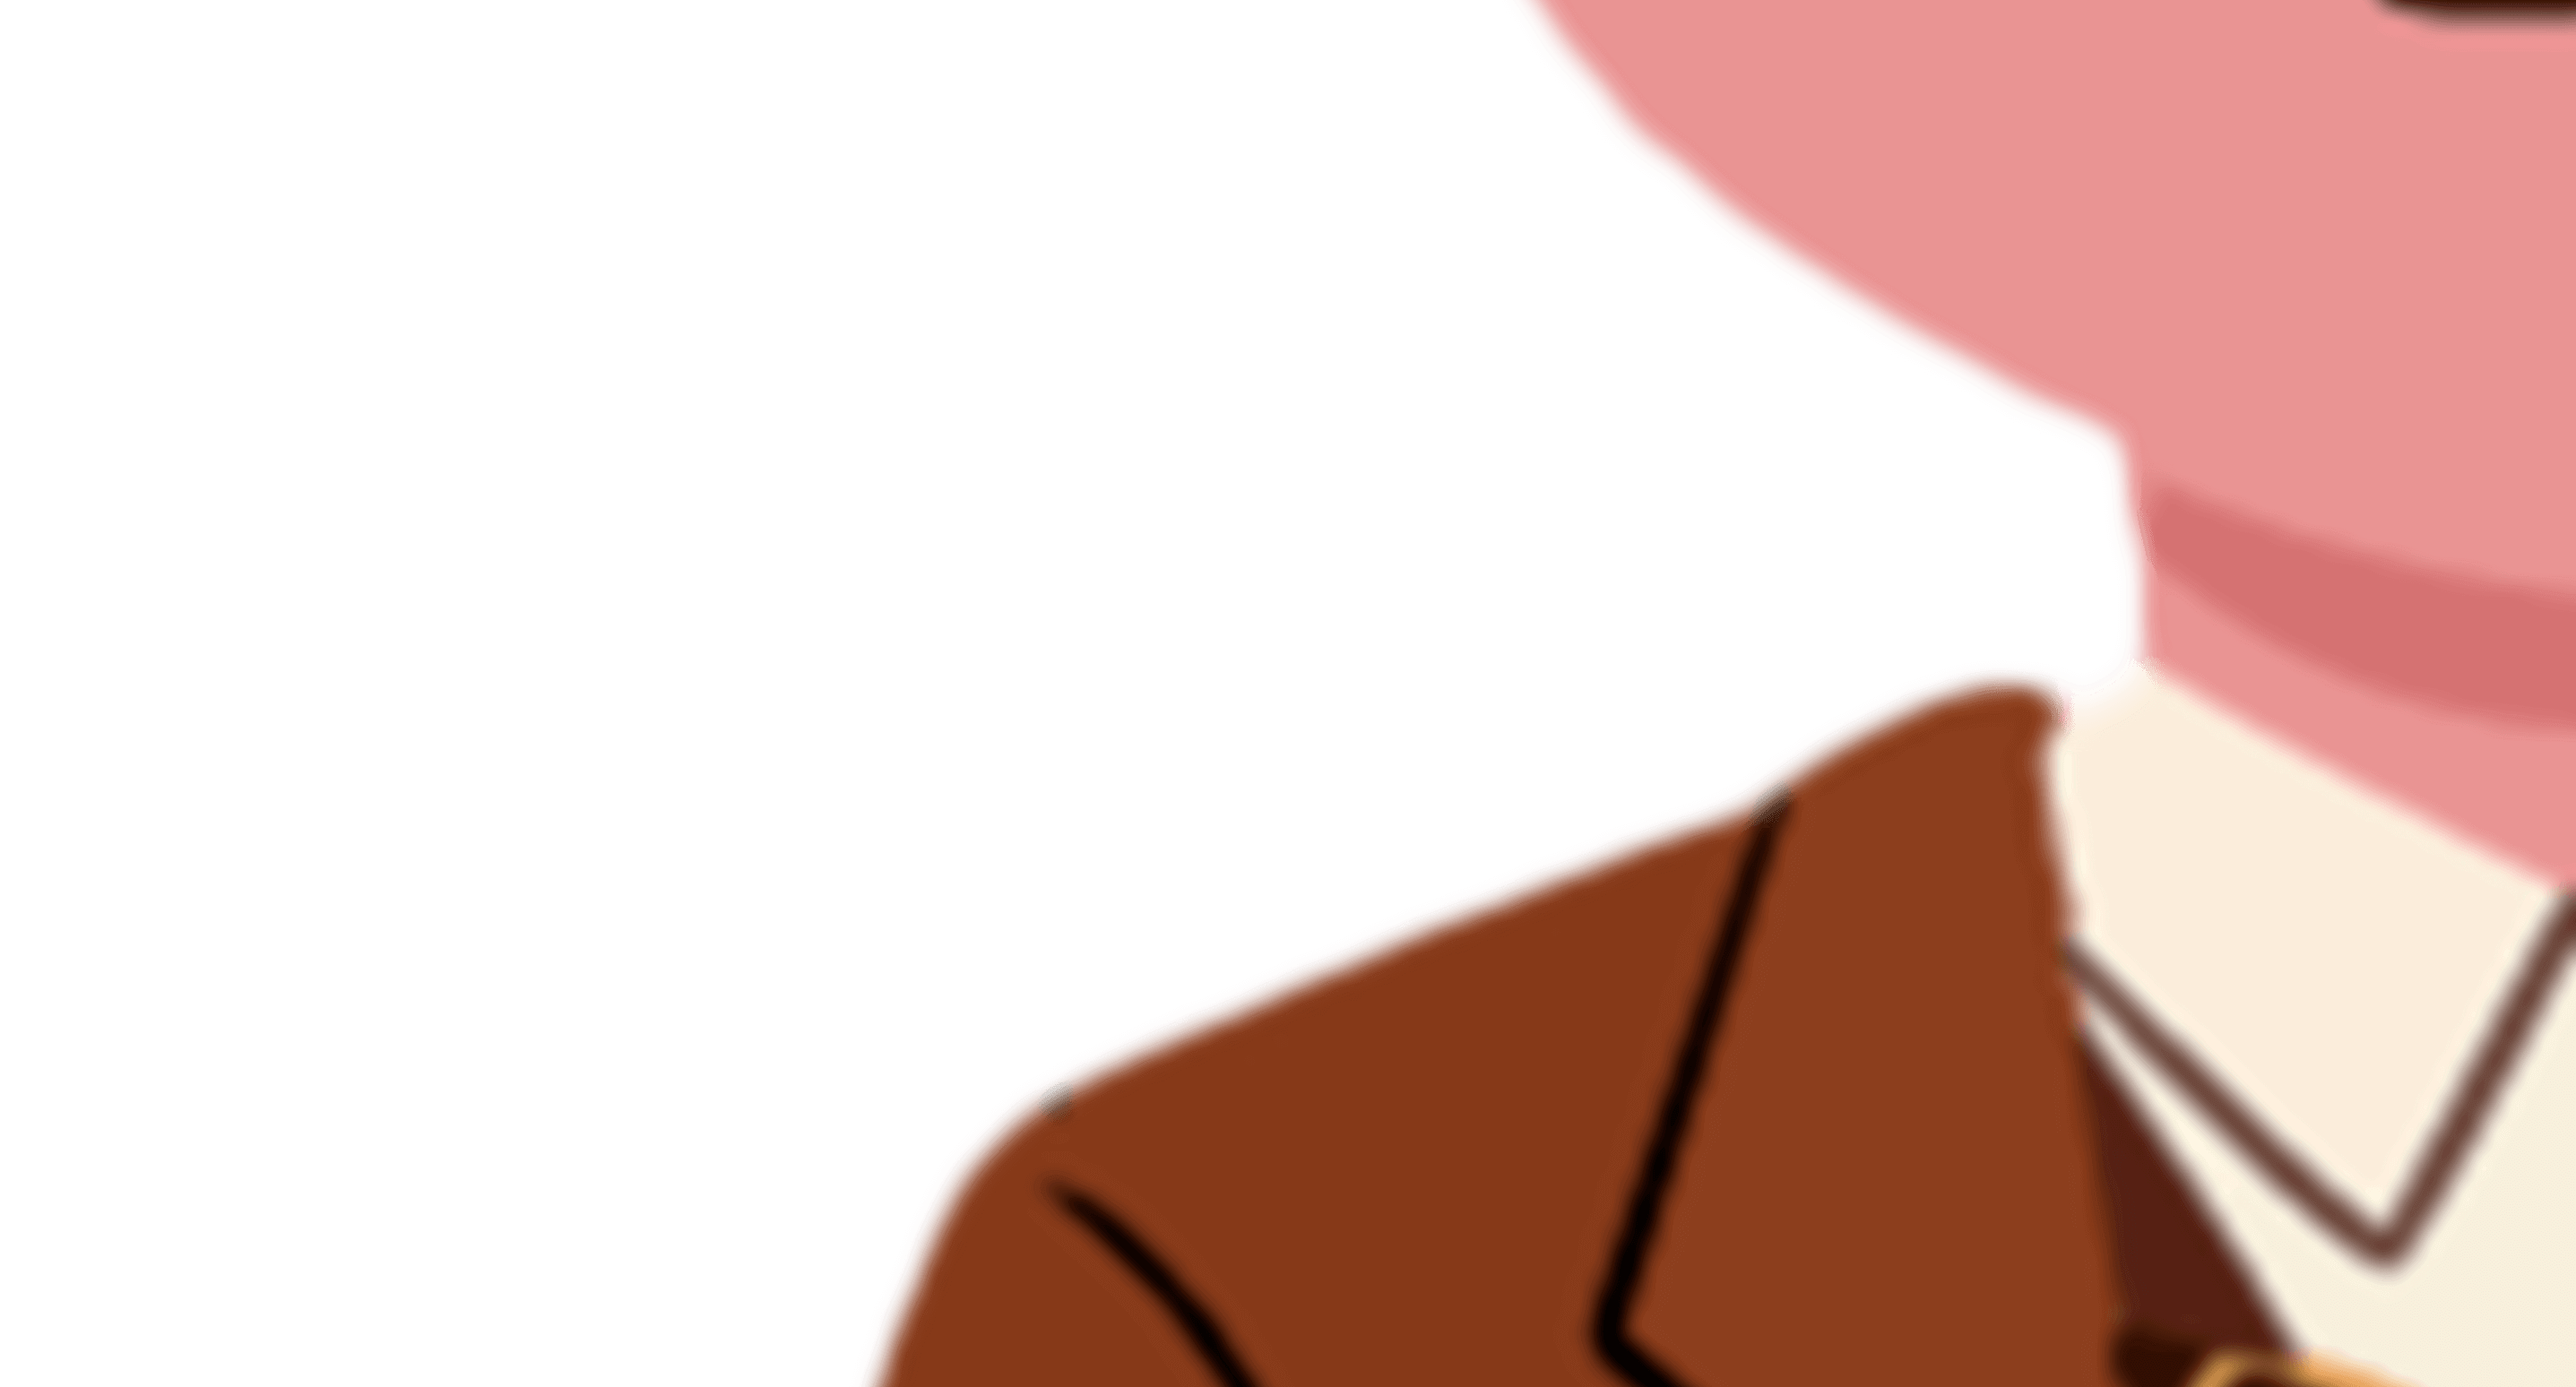
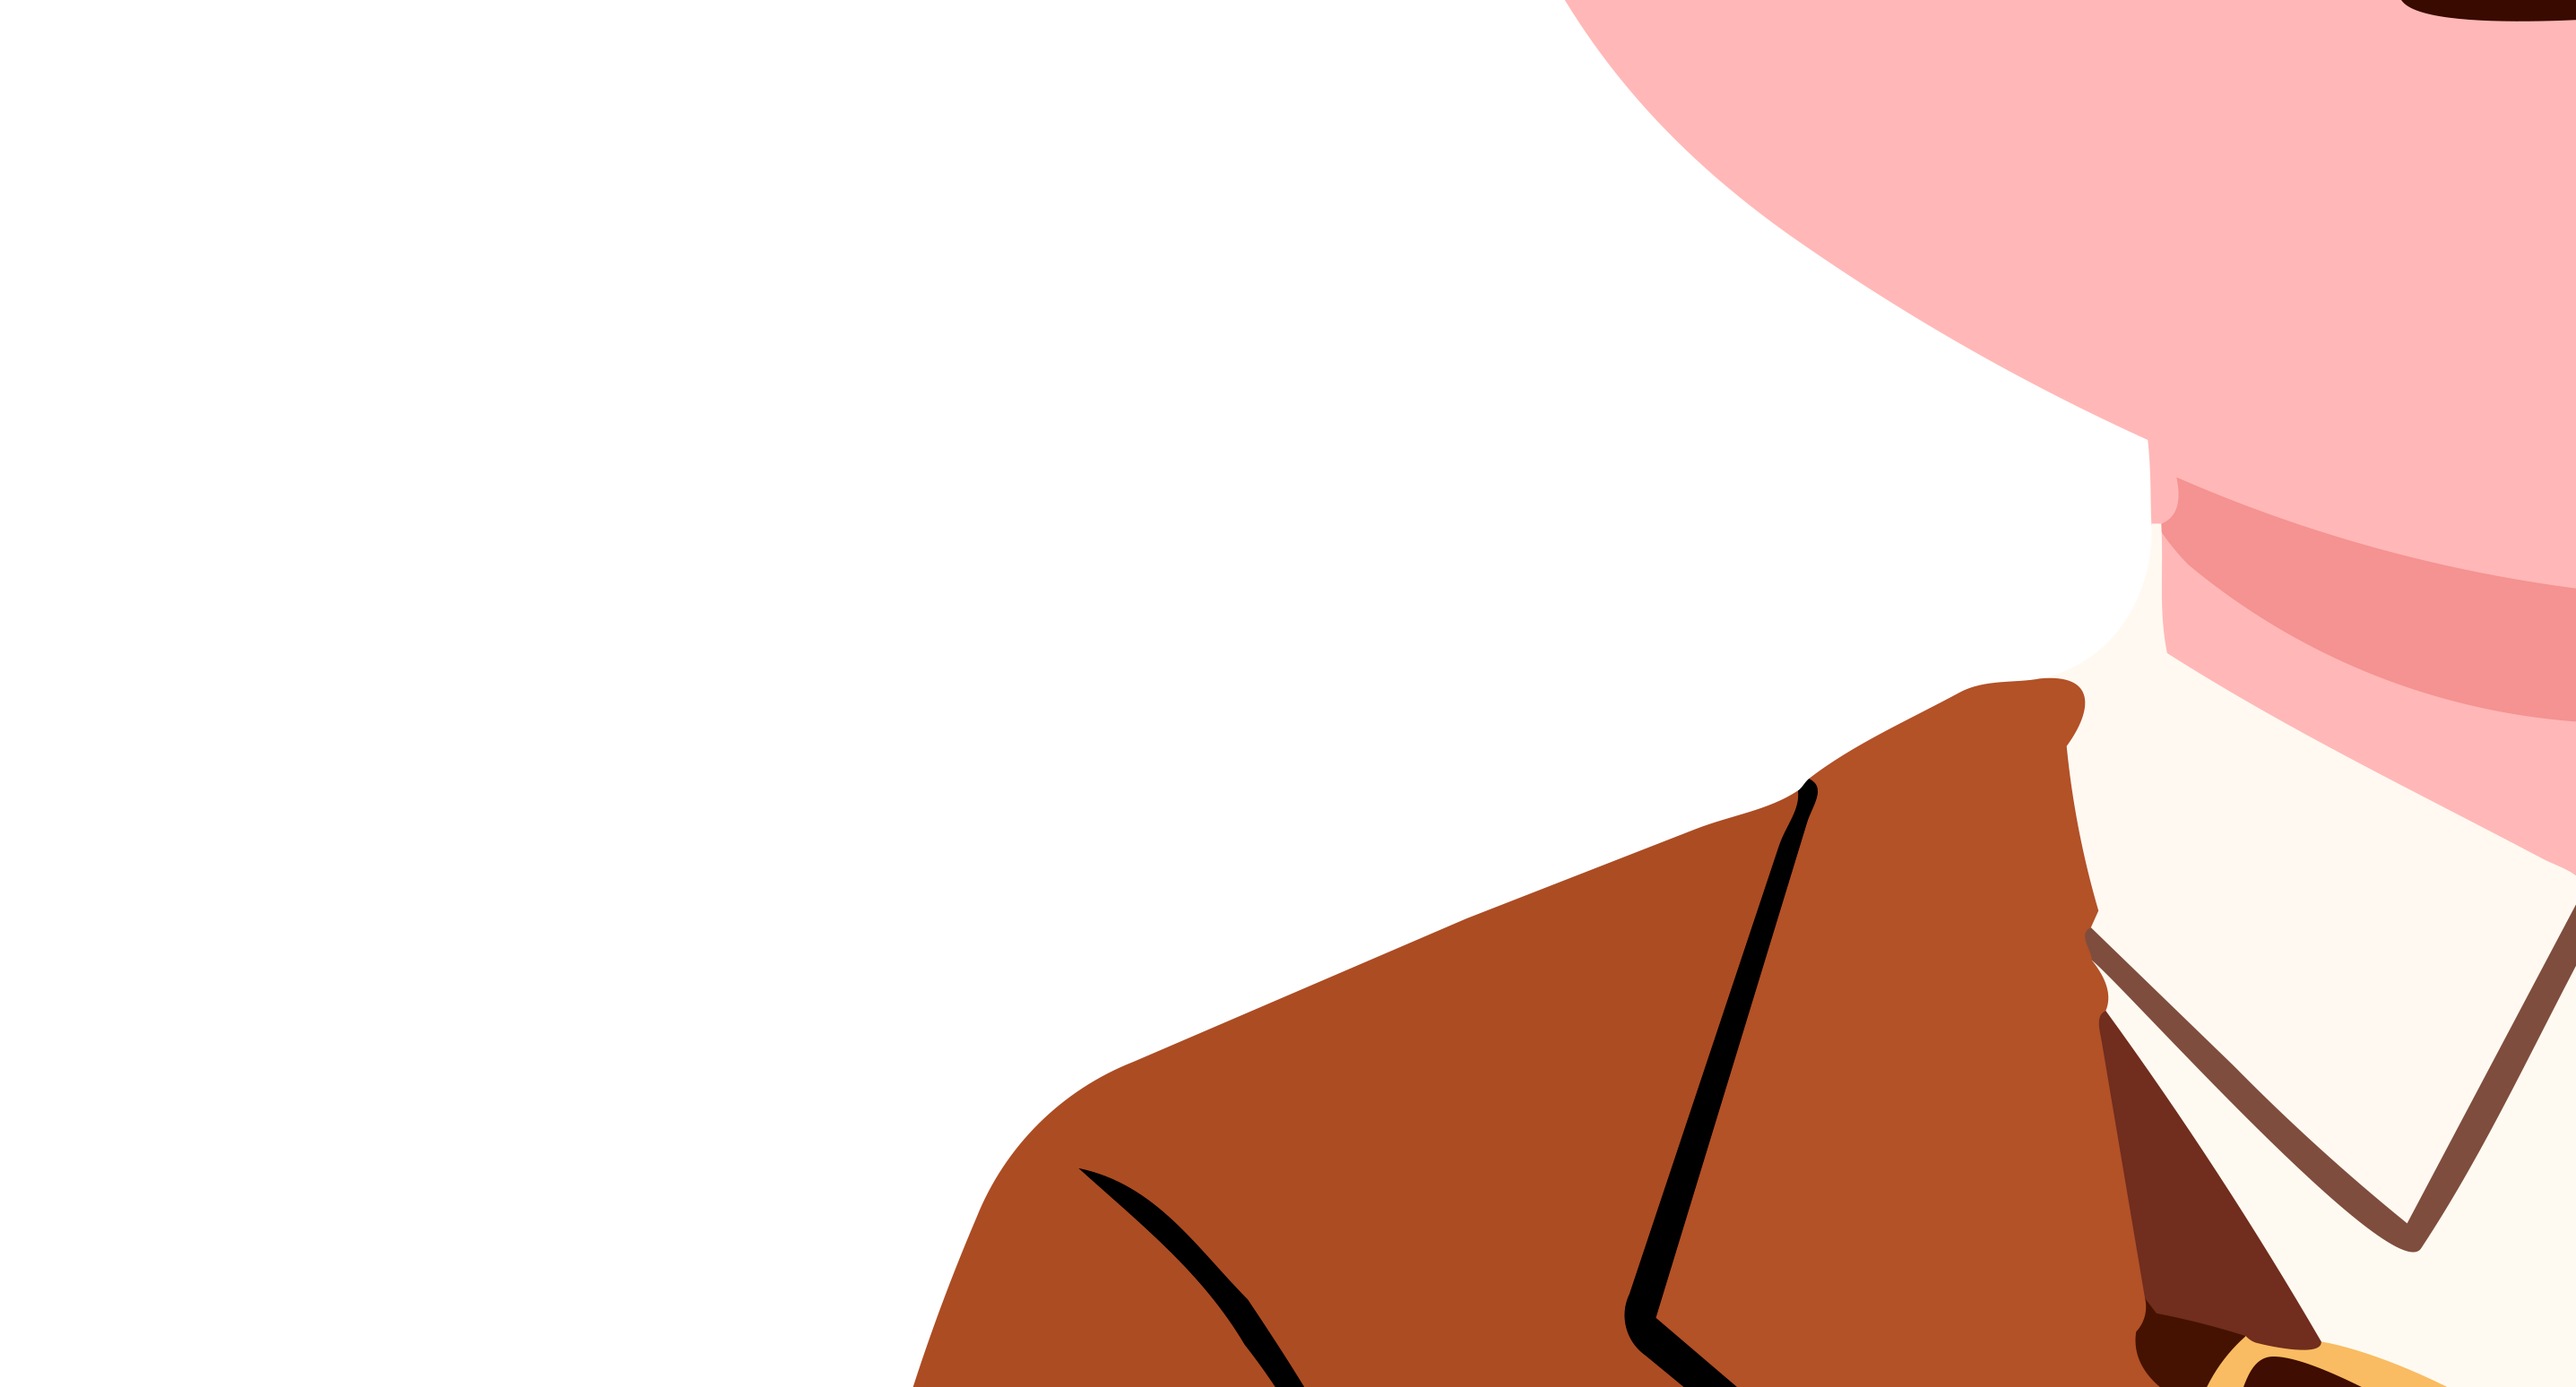
cambio ilustraciones

diff --git a/index.html b/index.html
@@ -4,7 +4,7 @@
     <meta charset="UTF-8">
     <meta name="viewport" content="width=device-width, initial-scale=1.0">
     <title>Un mundo para Bryce</title>
-    <link rel="stylesheet" href="css/style.css?v15">
+    <link rel="stylesheet" href="css/style.css?v16">
 
     <link rel="preconnect" href="https://fonts.googleapis.com">
     <link rel="preconnect" href="https://fonts.gstatic.com" crossorigin>
@@ -101,7 +101,7 @@
                             <span class="bryce">Bryce</span>
                         </h1>
                         <div class="inicio-description">
-                            <p>A propósito del cumpleaños 87 del escritor peruano Alfredo Bryce Echenique, repasamos siete de sus personajes que perviven en el imaginario peruano a pesar de los años. Ricos y pobres, adultos y niños, todos han sido marcados por la mirada implacable de la oligarquía, tal y como le pasó al novelista.</p>
+                            <p>A propósito del cumpleaños 87 del escritor peruano Alfredo Bryce Echenique, repasamos siete de sus personajes que perviven en el imaginario peruano a pesar de los años.</p>
                         </div>
                     </div>
                     <div class="inicio-character">
@@ -112,7 +112,7 @@
                             </div>
                         </div>
                     </div>
-                </div>
+                </div>                
             </div>
         </section>
 
@@ -377,8 +377,48 @@
                 </div>
             </div>
             <div class="hombro-5"></div>
-        </section>        
+        </section>    
+        
+        <!-- Section 8: Créditos -->
+        <section class="section" id="section-creditos" data-section="8">
+            <div class="section-content">
+                <div class="character-section">
+                                    
+                        <div class="box-footer">
+                            <ul>
+                                <li>
+                                    <p>
+                                        <span>Textos:</span>
+                                        Alfonso Rivadeneyra
+                                    </p>
+                                </li>
+                                <li>
+                                    <p>
+                                        <span>Ilustración de portada:</span>
+                                        Víctor Aguilar Rúa
+                                    </p>
+                                </li>
+                                <li>
+                                    <p>
+                                        <span>Ilustraciones de personajes:</span>
+                                        Generadas con IA, bajo dirección editorial
+                                    </p>
+                                </li>
+                                <li>
+                                    <p>
+                                        <span>Realización:</span>
+                                        Nuevas narrativas EC
+                                    </p>
+                                </li>
+                            </ul> 
+                        </div>                        
+                   
+                </div>
+            </div>
+        </section>  
 
+
+        
         
 
     </main>

diff --git a/css/style.css b/css/style.css
@@ -512,6 +512,26 @@ body {
     }
 }
 
+
+.box-footer{
+
+}
+    .box-footer ul{
+        list-style: none;
+    }
+        .box-footer ul li{
+            margin-bottom: 15px;
+        }
+            .box-footer ul li p{
+                font: .9rem/1.4 "Roboto", sans-serif;
+                color: #333;
+                text-align: center;
+            }
+                .box-footer ul li p span{
+                    display: block;
+                    font-weight: 800;
+                }
+
 /* Responsive */
 @media (max-width: 1024px) {
     .character-layout {
@@ -581,7 +601,7 @@ body {
         overflow: hidden;
     }
 
-    /* Sections en mÃ³vil - fullscreen */
+    /* Sections en móvil - fullscreen */
     .section {
         height: 100vh;
         height: 100dvh;
@@ -820,7 +840,7 @@ body {
     }
 
     #section-manuco .hombro-3{
-        background: url(../img/hombro-8-movil.jpg) no-repeat bottom center;
+        background: url(../img/hombro-8-movil.jpg?v2) no-repeat bottom center;
         background-size: 100%;
         height: 100vh; 
         position: fixed;   
@@ -1007,6 +1027,16 @@ body {
         max-width: 100%;
     }
 
+    .hombro-1,
+    .hombro-2,
+    .hombro-3,
+    .hombro-4,
+    .hombro-5,
+    .hombro-6,
+    .hombro-7 {
+        display: none;
+    }
+
 }
 
 /* Geometric shapes for decoration */
@@ -1051,7 +1081,7 @@ body {
 }
 
 .hombro-3{
-    background: url(../img/hombro-8.png) no-repeat bottom center;
+    background: url(../img/hombro-8.jpg?v2) no-repeat bottom center;
     background-size: cover;
     height: 100vh;
     position: absolute;
